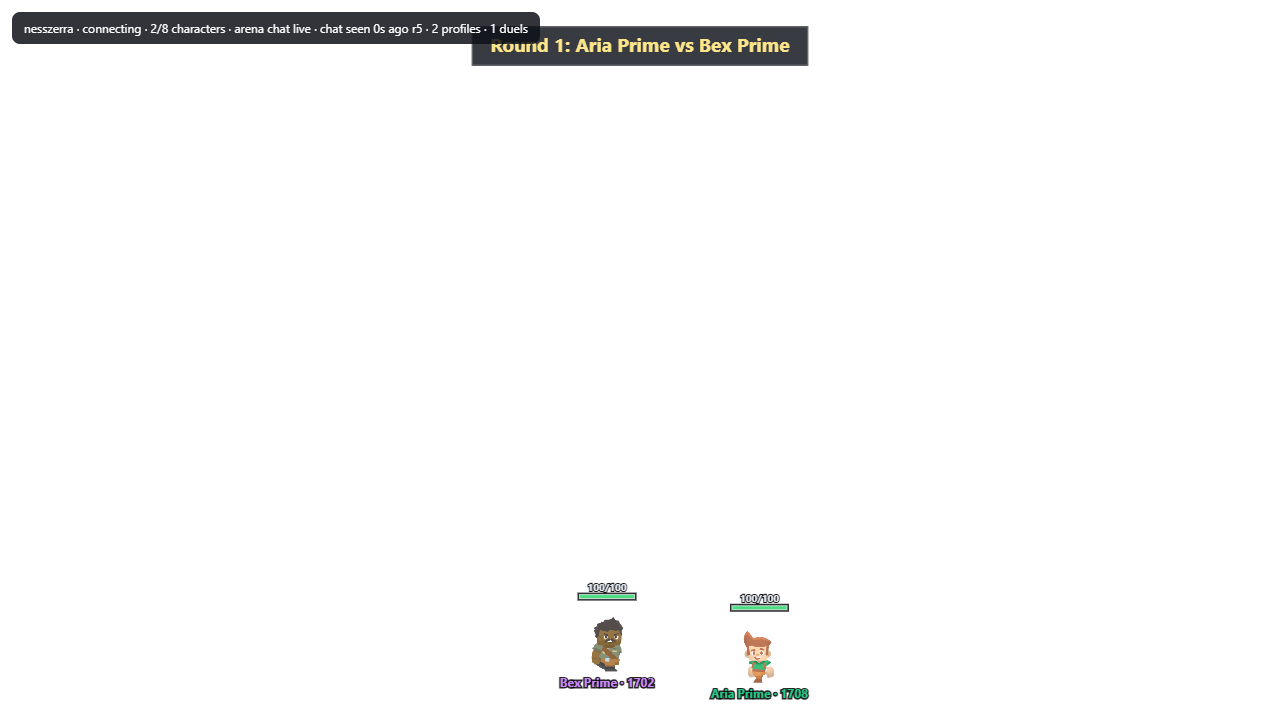
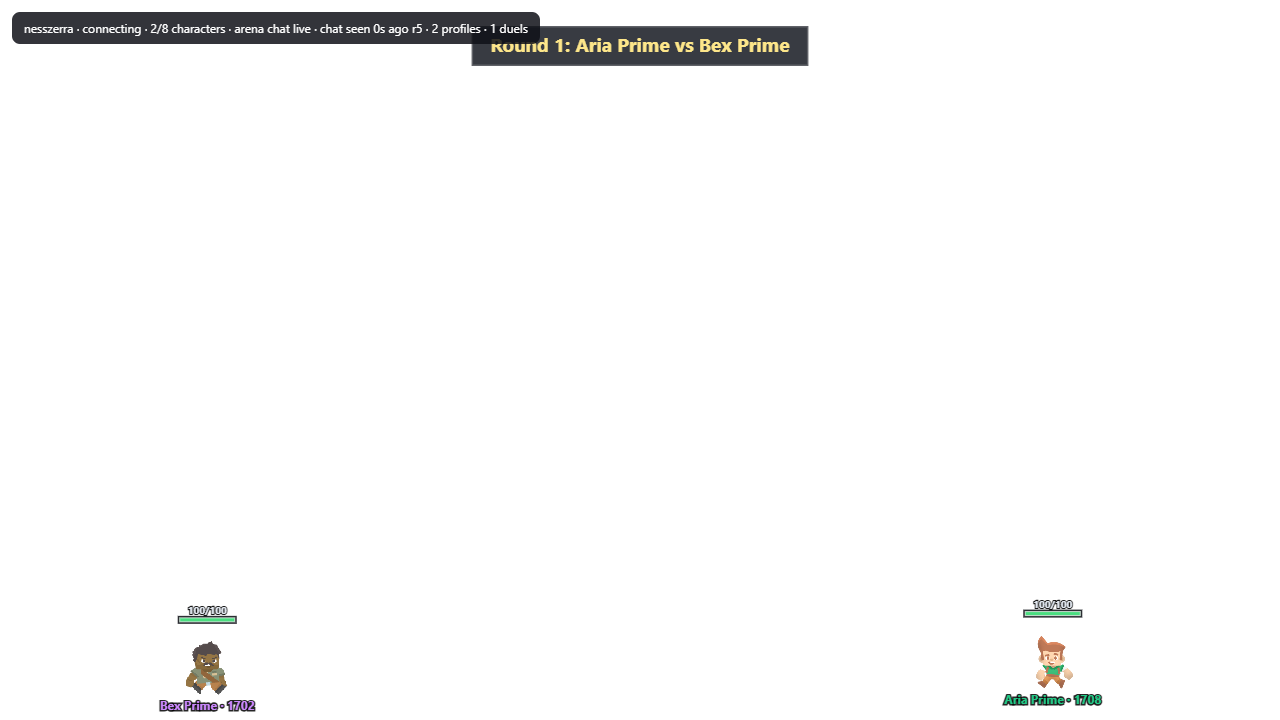
Duel fighters meet (within 2 s) before the rolls play

diff --git a/public/overlay.js b/public/overlay.js
@@ -239,16 +239,26 @@ async function start() {
   }
   function floatText(p, text, color) { if (p) p.floatText = { text, color, until: Date.now() + 1200 }; }
   // Events of one duel that arrive together (a quick duel sends start, hit and KO at once) play one after another.
+  // The fighters first walk to meet (duel_started waits for that), then each swing gets its own beat.
   const DUEL_EVENT_GAP_MS = { duel_started: 700, duel_action: 600 };
-  const duelNextAt = new Map();
+  const DUEL_WALK_MS = 2000;   // longest walk to the meet point; far-apart fighters walk faster
+  const duelQueues = new Map();
   function queueArenaEvent(event) {
     const id = event?.duelId;
     if (!id) return handleArenaEvent(event);
-    const now = Date.now(), at = Math.max(now, duelNextAt.get(id) || 0);
-    duelNextAt.set(id, at + (DUEL_EVENT_GAP_MS[event.type] || 0));
-    if (duelNextAt.size > 50) duelNextAt.delete(duelNextAt.keys().next().value);
-    if (at <= now) handleArenaEvent(event);
-    else setTimeout(() => handleArenaEvent({ ...event, at: Number.isFinite(event.at) ? event.at + (at - now) : event.at }), at - now);
+    let q = duelQueues.get(id);
+    if (!q) duelQueues.set(id, q = { items: [], busy: false });
+    q.items.push({ event, received: Date.now() });
+    if (!q.busy) pumpDuel(id, q);
+  }
+  function pumpDuel(id, q) {
+    const item = q.items.shift();
+    if (!item) { q.busy = false; duelQueues.delete(id); return; }
+    q.busy = true;
+    const { event, received } = item, waited = Date.now() - received;
+    handleArenaEvent(waited && Number.isFinite(event.at) ? { ...event, at: event.at + waited } : event);
+    const gap = event.type === 'duel_started' ? Math.max(DUEL_EVENT_GAP_MS.duel_started, (meetPoints.get(id)?.walkMs || 0) + 200) : (DUEL_EVENT_GAP_MS[event.type] || 0);
+    if (gap) setTimeout(() => pumpDuel(id, q), gap); else pumpDuel(id, q);
   }
   function handleArenaEvent(event) {
     if (!event || typeof event !== 'object') return;
@@ -267,6 +277,14 @@ async function start() {
       case 'duel_started':
         if (event.duelId && event.a && event.b) {
           replays.set(event.duelId, { id: event.duelId, a: String(event.a), b: String(event.b), status: 'active', hp: { ...(event.hp || {}) }, rules: { maxHp: Number(arenaConfig?.maxHp) || 100 } });
+          const fa = findPlayer(String(event.a)), fb = findPlayer(String(event.b));
+          if (fa && fb && !meetPoints.has(event.duelId)) {
+            const meet = { x: freeMeetX((fa.x + fb.x) / 2, size * 1.15), aLeft: fa.x <= fb.x };
+            const far = Math.max(Math.abs(fa.x - meet.x), Math.abs(fb.x - meet.x));
+            meet.speed = Math.max(110, far / (DUEL_WALK_MS / 1000));
+            meet.walkMs = Math.min(DUEL_WALK_MS, far / meet.speed * 1000);
+            meetPoints.set(event.duelId, meet);
+          }
           for (const id of [event.a, event.b]) { const f = findPlayer(String(id)); if (f && !(f.koHoldUntil > now)) f.koUntil = 0; }   // state may already show the KO
           setTimeout(() => replays.delete(event.duelId), 15000);   // safety net if duel_completed never arrives
         }
@@ -508,7 +526,7 @@ async function start() {
         const isA = String(duel.a) === p.userId;
         const target = meet.x + ((isA === meet.aLeft) ? -gap / 2 : gap / 2);
         const diff = target - p.x;
-        if (Math.abs(diff) > 2) { p.x += Math.sign(diff) * Math.min(Math.abs(diff), 110 * dt); moving = true; p.direction = Math.sign(diff); }
+        if (Math.abs(diff) > 2) { p.x += Math.sign(diff) * Math.min(Math.abs(diff), (meet.speed || 110) * dt); moving = true; p.direction = Math.sign(diff); }
         else p.direction = opponent.x >= p.x ? 1 : -1;
       } else if (duel?.status === 'pending' && opponent) {
         p.direction = opponent.x >= p.x ? 1 : -1;
@@ -665,6 +683,7 @@ async function start() {
     clearInterval(arenaTimer);
   }, { once: true });
   if (debug && arenaEnabled) {
+    window.__arenaMove = (userId, x) => { const p = findPlayer(String(userId)); if (p) p.x = x; };   // tests: place fighters
     window.__arenaDebug = () => ({
       revision: arenaRevision,
       paused: arenaPaused,
